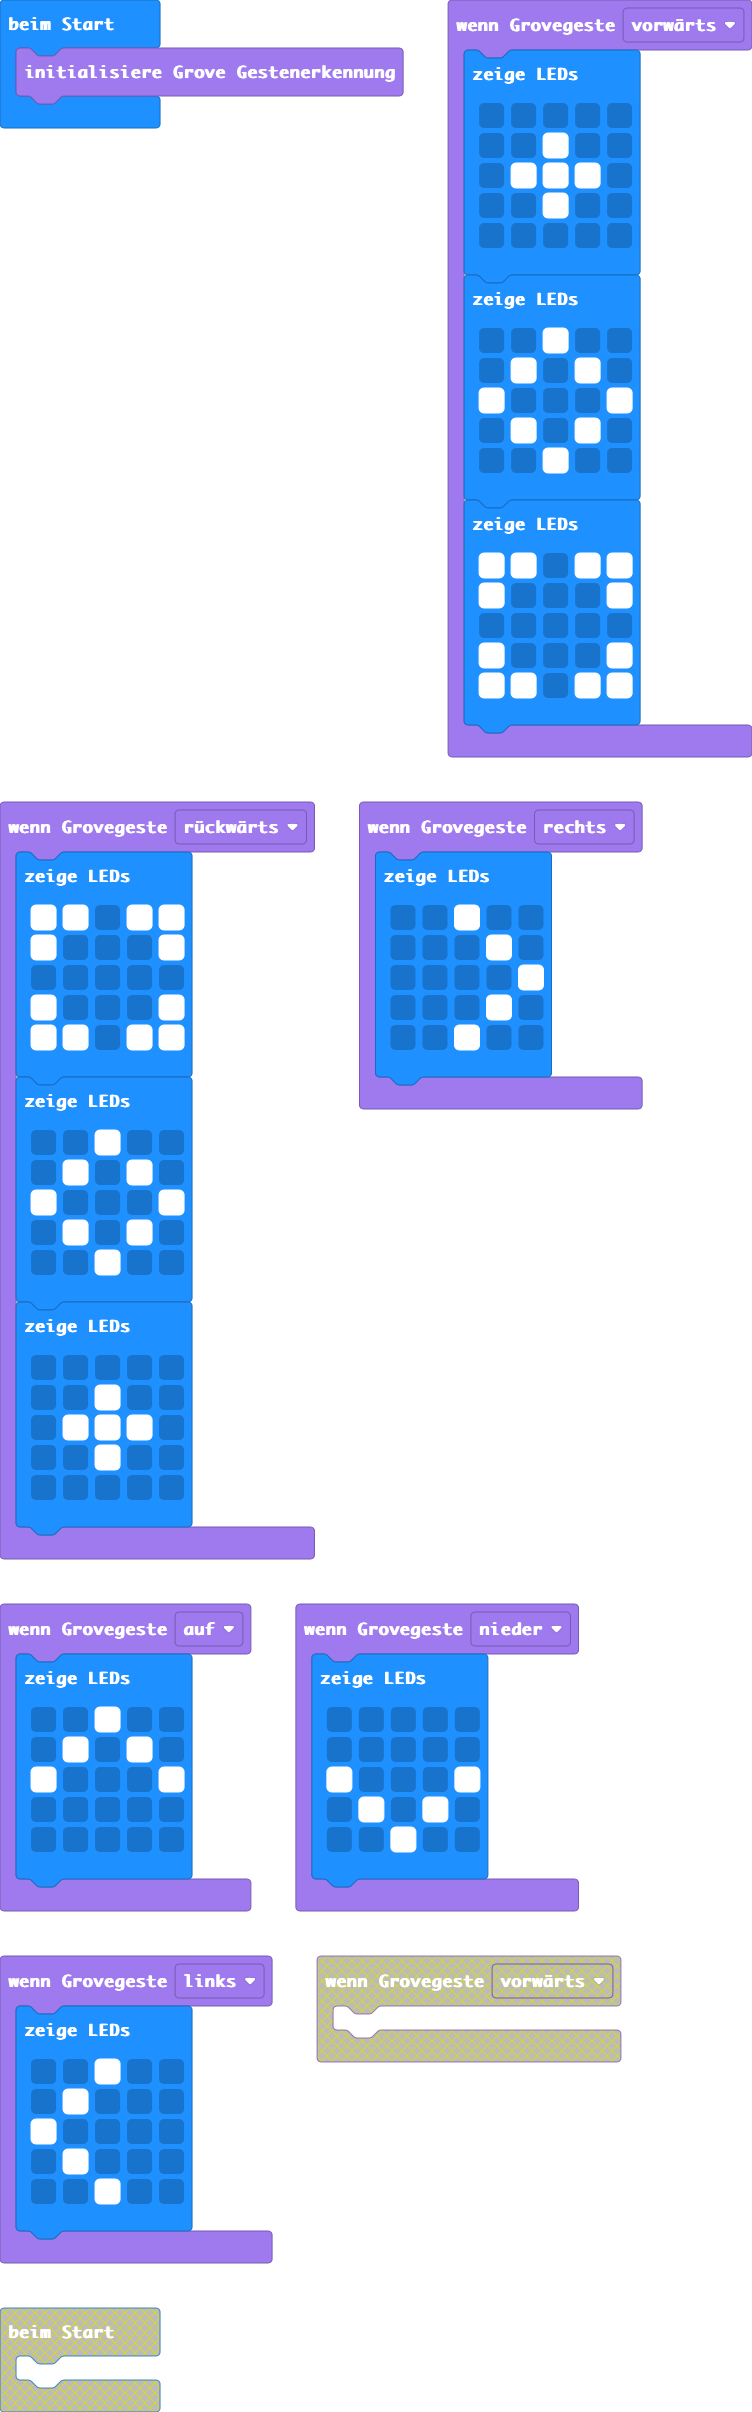
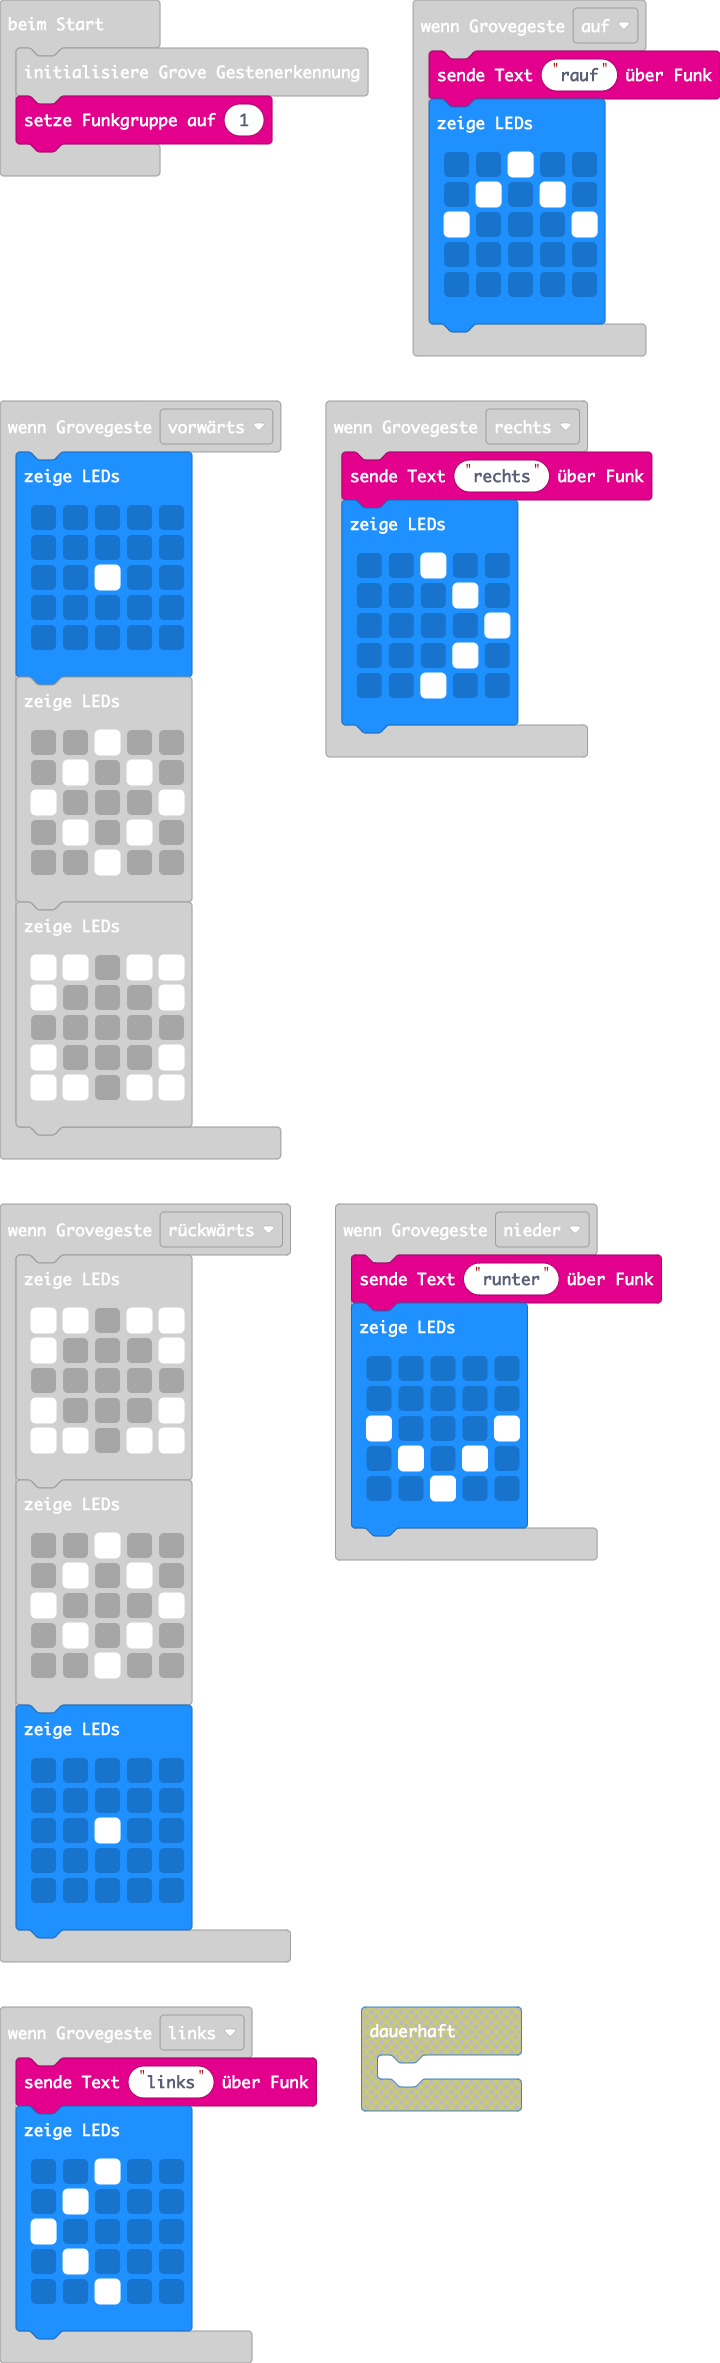
Aktualisiere pxt.json, main.blocks, main.ts

diff --git a/main.ts b/main.ts
@@ -1,4 +1,5 @@
 grove.onGesture(GroveGesture.Right, function () {
+    radio.sendString("rechts")
     basic.showLeds(`
         . . # . .
         . . . # .
@@ -8,6 +9,7 @@ grove.onGesture(GroveGesture.Right, function () {
         `)
 })
 grove.onGesture(GroveGesture.Up, function () {
+    radio.sendString("rauf")
     basic.showLeds(`
         . . # . .
         . # . # .
@@ -17,6 +19,7 @@ grove.onGesture(GroveGesture.Up, function () {
         `)
 })
 grove.onGesture(GroveGesture.Down, function () {
+    radio.sendString("runter")
     basic.showLeds(`
         . . . . .
         . . . . .
@@ -28,9 +31,9 @@ grove.onGesture(GroveGesture.Down, function () {
 grove.onGesture(GroveGesture.Forward, function () {
     basic.showLeds(`
         . . . . .
+        . . . . .
         . . # . .
-        . # # # .
-        . . # . .
+        . . . . .
         . . . . .
         `)
     basic.showLeds(`
@@ -49,6 +52,7 @@ grove.onGesture(GroveGesture.Forward, function () {
         `)
 })
 grove.onGesture(GroveGesture.Left, function () {
+    radio.sendString("links")
     basic.showLeds(`
         . . # . .
         . # . . .
@@ -74,13 +78,11 @@ grove.onGesture(GroveGesture.Backward, function () {
         `)
     basic.showLeds(`
         . . . . .
+        . . . . .
         . . # . .
-        . # # # .
-        . . # . .
+        . . . . .
         . . . . .
         `)
 })
 grove.initGesture()
-basic.forever(function () {
-	
-})
+radio.setGroup(1)
